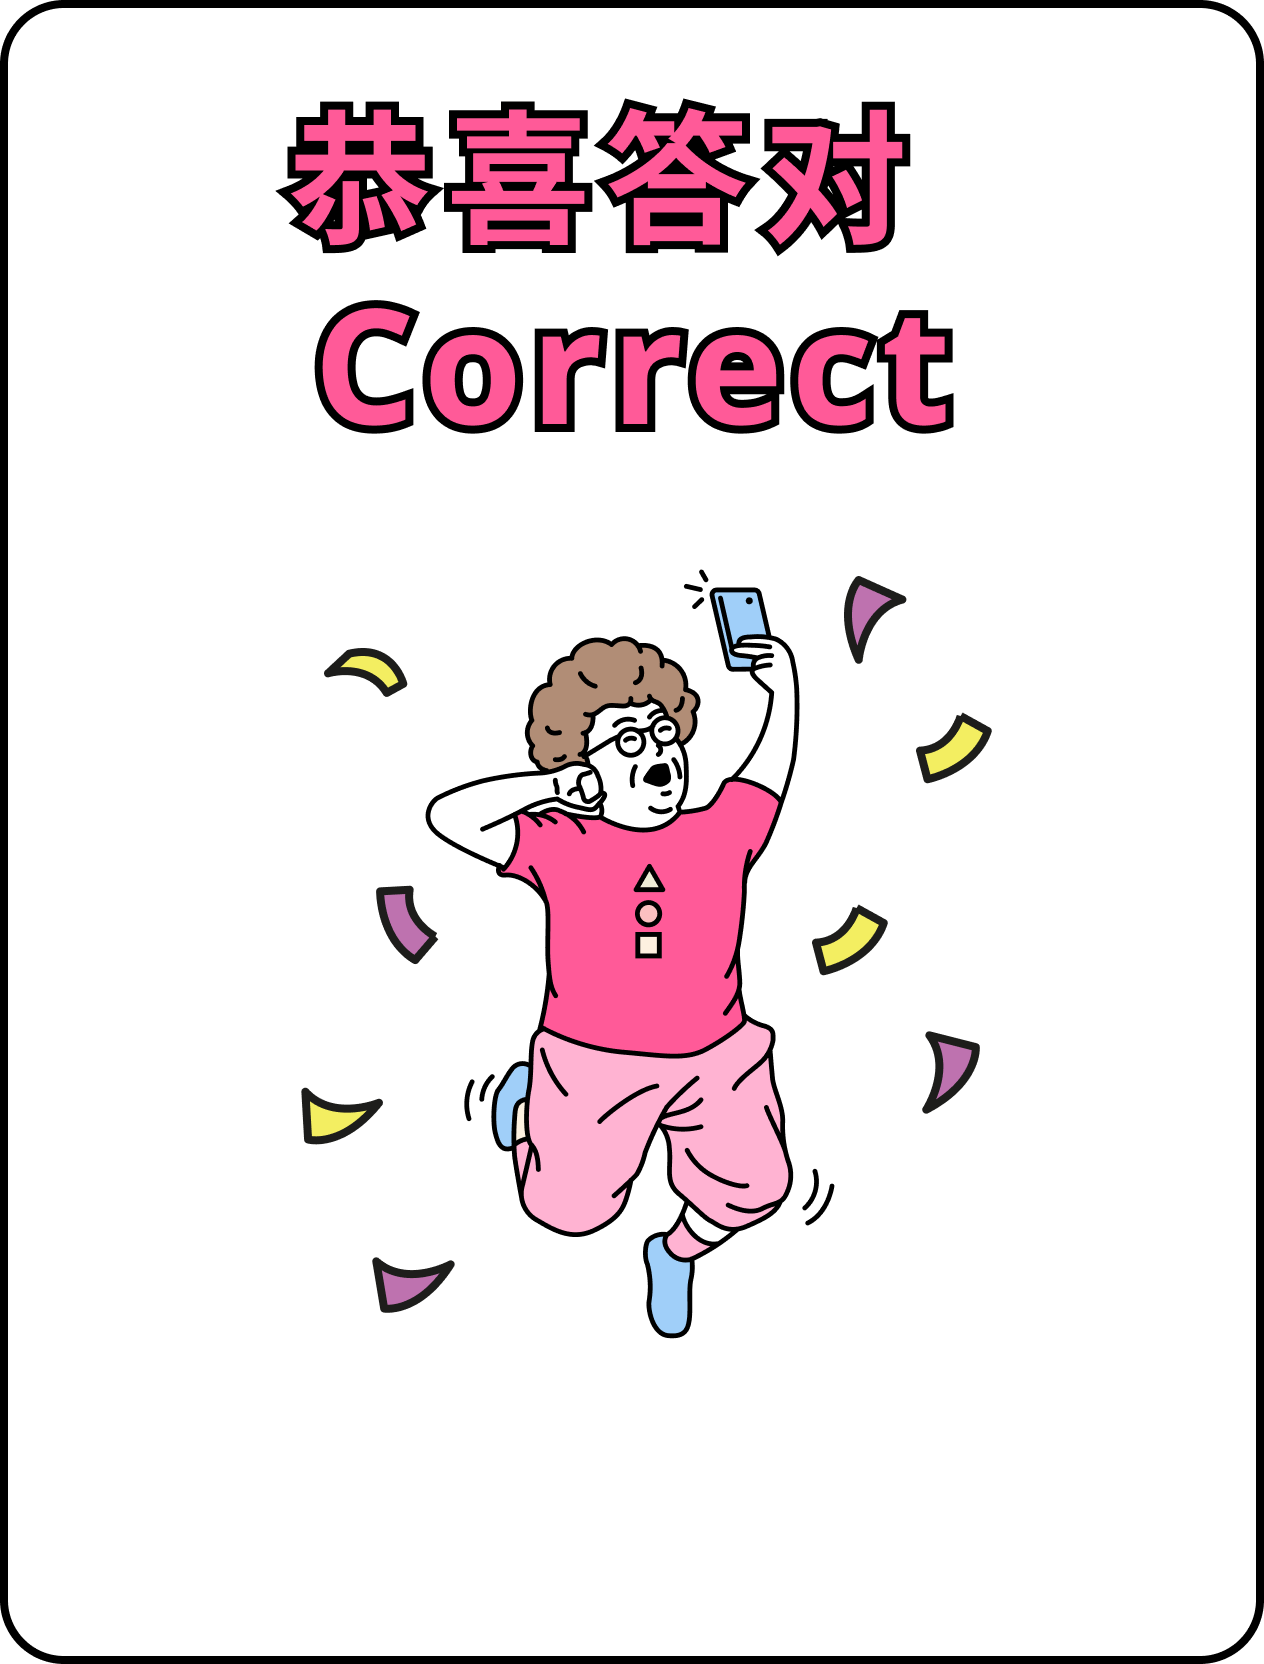
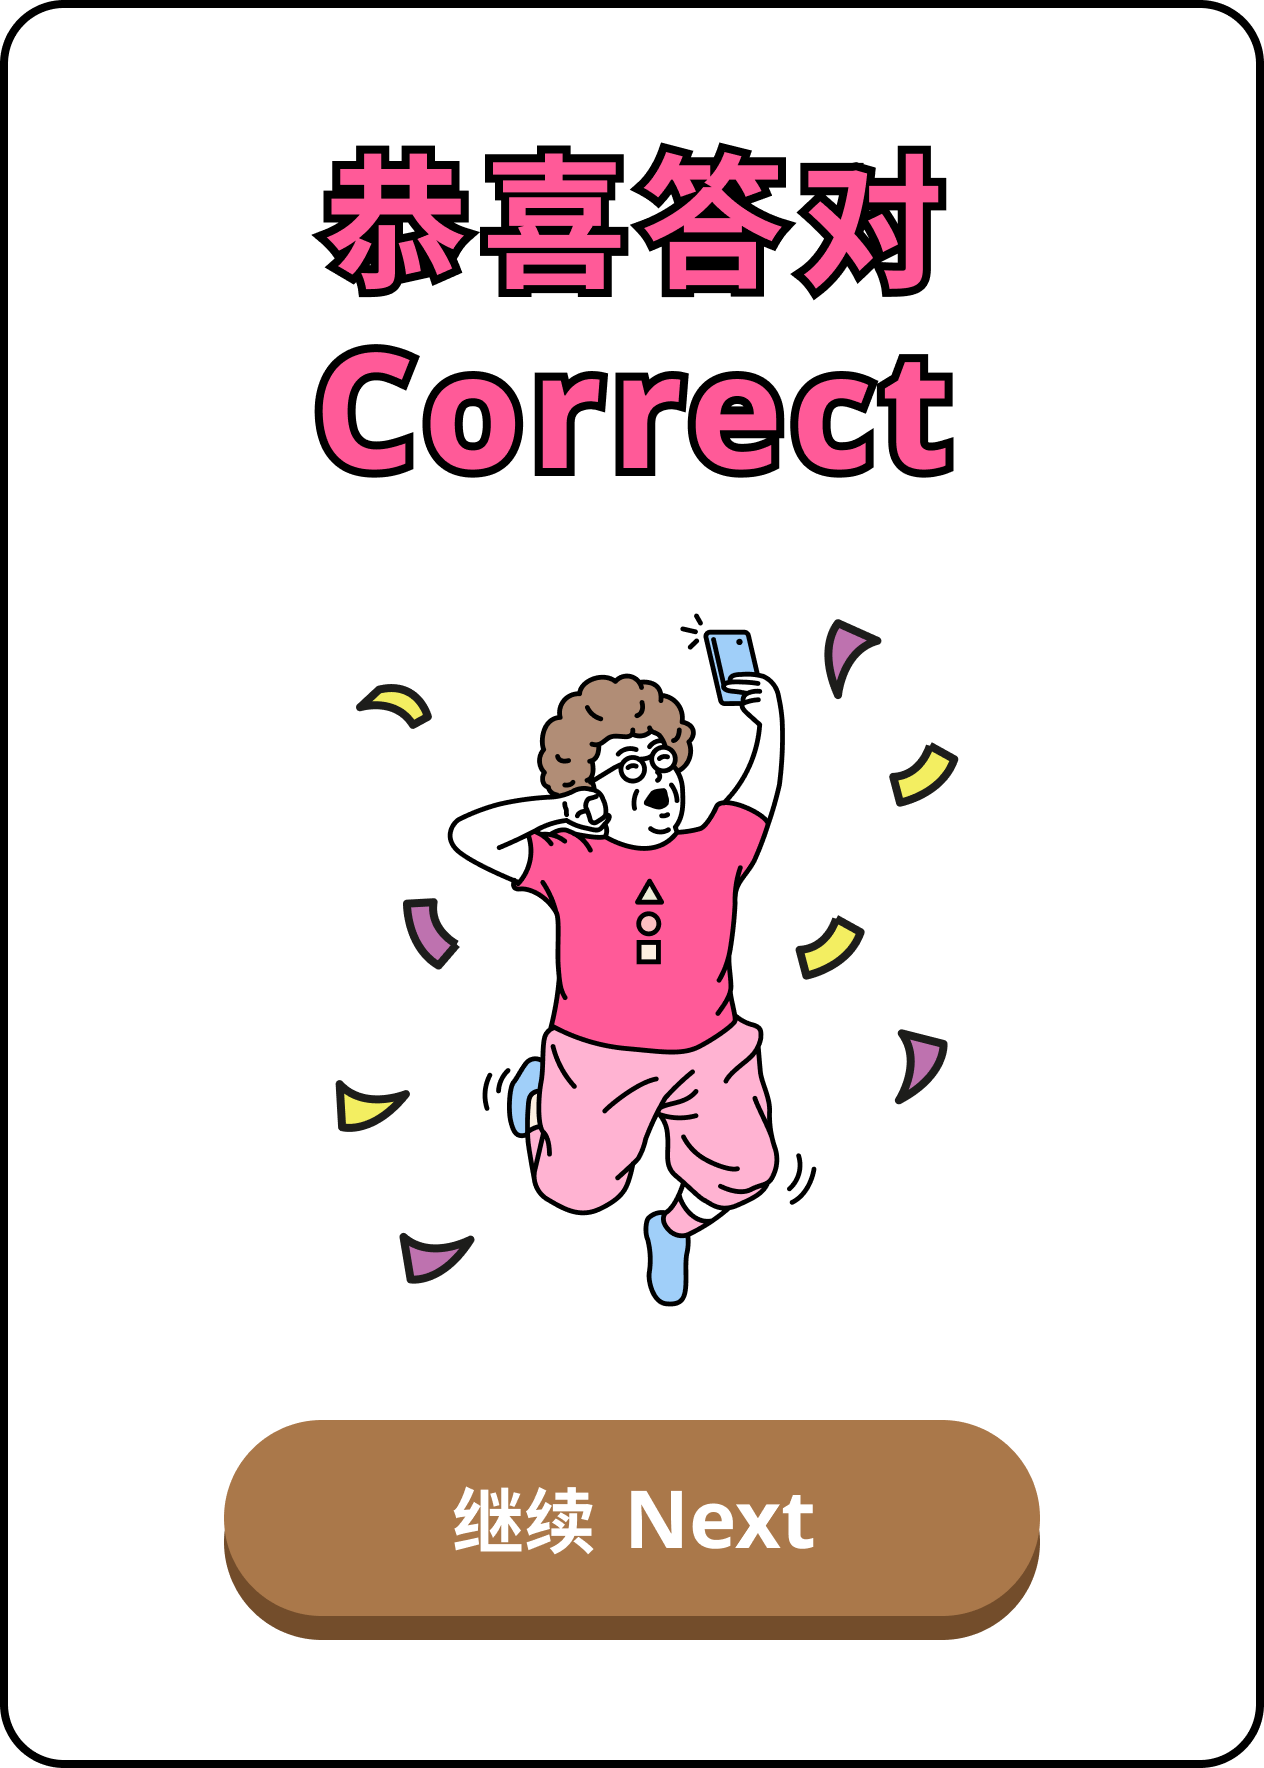
i

diff --git a/script.js b/script.js
@@ -60,6 +60,15 @@ let ingredients = [
     {number: "6",image:"./img/kopiI.png"}
 ]
 
+let selectedIngredients = [
+    {number: "1",image:"./img/selectedBK.png"},
+    {number: "2",image:"./img/selectedM.png"},
+    {number: "3",image:"./img/selectedS.png"},
+    {number: "4",image:"./img/selectedEM.png"},
+    {number: "5",image:"./img/selectedI.png"},
+    {number: "6",image:"./img/selectedKI.png"}
+]
+
 let Q1 = [
     {image:"./img/kopi.png"},
     {number: "2",image:"./img/milk.png"},
@@ -203,18 +212,12 @@ submit.addEventListener("click", () => {
         score += 1;
         popUp.classList.remove("hide")
         pop.innerHTML = `
-        <img class="correct" src="./img/correct.png">
-            <button class="next">
-                <img class="nextbtn" src="./img/next.png">
-            </button>`
+        <img class="next" src="./img/correct.png">`
     }
     else{
         popUp.classList.remove("hide")
         pop.innerHTML = `
-        <img class="correct" src="./img/keepItUp.png">
-            <button class="next">
-                <img class="nextbtn" src="./img/next.png">
-            </button>`
+        <img class="next" src="./img/keepItUp.png">`
     }
     let next = document.querySelector(".next")
     next.addEventListener("click", () => {
@@ -382,9 +385,9 @@ answer2.addEventListener("click", () => {
     ans2.innerHTML = `<img class="options" src="${ingredients[randomwrong2Index].image}">`
     ans3.innerHTML = `<img class="options" src="${ingredients[randomwrong3Index].image}">`
 
-    btn1Image = ingredients[randomwrong1Index].image
-    btn2Image = ingredients[randomwrong2Index].image
-    btn3Image = ingredients[randomwrong3Index].image
+    btn1Image = selectedIngredients[randomwrong1Index].image
+    btn2Image = selectedIngredients[randomwrong2Index].image
+    btn3Image = selectedIngredients[randomwrong3Index].image
     
     overwrite = 0;
 
@@ -396,26 +399,39 @@ answer2.addEventListener("click", () => {
                 correctAnswerIndex = Math.floor(Math.random() * 3)+1;
             }
         }
+        let correctAnswer = newQuestion[i].number
         let correctAnswerId = "btn" + correctAnswerIndex;
         document.getElementById(correctAnswerId).innerHTML = `<img class="options" src="${newQuestion[i].image}"/>`
 
         if(correctAnswerIndex == 1){
             overwrite = 1;
             btn1Answer = newQuestion[i].number
-            btn1Image = newQuestion[i].image
-            console.log("C"+btn1Answer)
+            for (let c = 0; c < 6; c++) {
+                checkImage = c + 1
+                if(correctAnswer == checkImage){
+                    btn1Image = selectedIngredients[c].image
+                }
+            }
         }
         if(correctAnswerIndex == 2){
             overwrite = 2;
             btn2Answer = newQuestion[i].number
-            btn2Image = newQuestion[i].image
-            console.log("C"+btn2Answer)
+            for (let c = 0; c < 6; c++) {
+                checkImage = c + 1
+                if(correctAnswer == checkImage){
+                    btn2Image = selectedIngredients[c].image
+                }
+            }
         }
         if(correctAnswerIndex == 3){
             overwrite = 3;
             btn3Answer = newQuestion[i].number
-            btn3Image = newQuestion[i].image
-            console.log("C"+btn3Answer)
+            for (let c = 0; c < 6; c++) {
+                checkImage = c + 1
+                if(correctAnswer == checkImage){
+                    btn3Image = selectedIngredients[c].image
+                }
+            }
         }  
         
     }

diff --git a/style.css b/style.css
@@ -104,8 +104,6 @@ button{
     padding: 18%;
     background-color: #DEBD9F;
     border:  2px dotted black;
-    width: 50%;
-    height: 50%;
     margin: 2.5% 2.5%;
     border-radius: 15px;
 }
@@ -154,6 +152,10 @@ button.submit, button.playAgain{
     margin: 2.5% auto;
     width: 50%;
 }
+.close{
+    width: 10%;
+    height: auto;
+}
 
 .popUp{
     position: fixed;
@@ -178,15 +180,8 @@ button.submit, button.playAgain{
 }
 
 .next{
-    position: absolute;
-    display: flex;
-    justify-content: center;
-    margin-top: 35vh;
-}
-
-.nextbtn{
-    max-width: 180px;
-    width: 50%;
+    width: 80%;
+    max-width: 400px;
 }
 
 .correct{
@@ -269,8 +264,8 @@ button{
     .final .end{
         max-width: 360px;
     }
-    .nextbtn{
-        max-width: 150px;
-        width: 30%;
+    .next{
+        max-width: 250px;
+        width: 50%;
     }
 }

diff --git a/index.html b/index.html
@@ -44,6 +44,10 @@
                 0/0
             </div>
             <div class="question"></div>
+            <div class="instruction">
+                <p>点击选择冲调方法</p>
+                <p>Click on the ingredients </p>
+            </div>
             <!--added answer-q-->
             <div class="answer-q">
             <button id="btn1">
